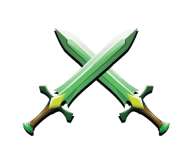
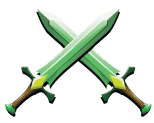
About section is done

Changed region(s): [[0.026, 0.0732, 0.987, 0.9512], [0.4416, 0.5366, 0.4675, 0.561], [0.4156, 0.561, 0.4416, 0.5854]]

diff --git a/src/battlechan_frontend/src/components/LandingPage/LandingAbout/LandingAbout.tsx b/src/battlechan_frontend/src/components/LandingPage/LandingAbout/LandingAbout.tsx
@@ -2,52 +2,25 @@ import React from "react";
 
 import { FiArrowRight } from "react-icons/fi";
 import Sword from "../../../images/sword.png";
-import like from "../../../images/like.png";
-import tab from "../../../images/tablet.png";
+import like from "../../../images/likes.png";
+import big_image from "../../../images/tablet.png";
 import dollarCoin from "../../../images/dollar_coin.png";
 import profile_pic from "../../../images/profilePic.png";
-
-// interface contentTypes {
-//   index: number;
-//   name: string;
-//   constant: string;
-//   date_and_time: string;
-//   left_time: string;
-//   profile_photo: string;
-// }
-
-const content = [
-  {
-    index: 1,
-    name: "Lannister Grey",
-    constant:
-      "Lorem ipsum dolor sit amet, consectetur adipiscing elit, sed do eiusmod tempor incididunt ut labore.......",
-    date_and_time: "Oct 29,2023 : 13:30",
-    left_time: `5:00 min left`,
-    big_image: tab,
-    profile_photo: profile_pic,
-  },
-  {
-    index: 2,
-    name: "Lannister Grey",
-    constant:
-      "Lorem ipsum dolor sit amet, consectetur adipiscing elit, sed do eiusmod tempor incididunt ut labore.......",
-    date_and_time: "Oct 29,2023 : 13:30",
-    left_time: `0:52 min left`,
-    big_image: tab,
-    profile_photo: profile_pic,
-  },
-];
 
 const LandingAbout = () => {
   const className = "LandingAbout";
 
   return (
-    <div className={className + " w-full h-[80vh] bg-green flex-direction-row"}>
+    <div
+      className={
+        className +
+        " w-full h-[90vh] px-24 bg-green flex-direction-row relative"
+      }
+    >
       <section
         className={
           className +
-          "__leftSide w-1/3 h-full gap-8 pl-24 py-24 flex flex-col items-start justify-evenly"
+          "__leftSide w-1/3 h-full gap-8 py-24 flex flex-col items-start justify-evenly"
         }
       >
         <h1 className="text-5xl font-bold"> About Battlechan</h1>
@@ -65,50 +38,116 @@ const LandingAbout = () => {
         </button>
       </section>
 
-      <section className={className + "__rightSide relative"}>
-        {content &&
-          content.map((item, i) => (
-            <div
-              className="card bg-dark h-[160px] w-[760px] gap-8 m-8 rounded-2xl flex-row-center relative"
-              key={i}
-            >
-              <section className="image">
-                <img
-                  src={item.big_image}
-                  alt="Big Image"
-                  className=" bottom-12 pl-8 absolute"
-                />
-              </section>
+      <section
+        className={
+          className +
+          "__rightSide relative w-2/3 h-full flex-direction-col justify-around"
+        }
+      >
+        <Cards />
 
-              <section className="content flex-col-center">
-                <div className="top flex-row-center">
-                  <div className="profileImage relative">
-                    <img
-                      src={item.profile_photo}
-                      alt="Profile Photo"
-                      className="absolute bottom-4"
-                    />
-                  </div>
-                  <p className="name text-xl">{item.name}</p>
-                  <p className="date_and_time">{item.date_and_time}</p>
-                  <p className="left_time text-xl">{item.left_time}</p>
-                </div>
-
-                <p className="px-24 pb-8">{item.constant}</p>
-              </section>
-            </div>
-          ))}
-
-        <img src={Sword} alt="Sword" className="absolute" />
-        <img src={Sword} alt="Sword" className="absolute" />
-        <img src={like} alt="Thumbs up" className="absolute" />
-        <img src={like} alt="Thumbs up" className="absolute" />
-        <img src={like} alt="Thumbs up" className="absolute" />
-        <img src={like} alt="Thumbs up" className="absolute" />
-        <img src={dollarCoin} alt="dollar coin" className="absolute" />
-        <img src={dollarCoin} alt="dollar coin" className="absolute" />
+        <img
+          src={dollarCoin}
+          alt="dollar coin"
+          className="absolute pointer-events-none w-[150px] right-[20%] top-0"
+        />
+        <img
+          src={dollarCoin}
+          alt="dollar coin"
+          className="absolute pointer-events-none w-[50px] left-[40%] top-[50%] translate-x-[-50%] translate-y-[-50%]"
+        />
+        <img
+          src={Sword}
+          alt="Sword"
+          className="absolute pointer-events-none top-[10%]"
+        />
+        <img
+          src={Sword}
+          alt="Sword"
+          className="absolute pointer-events-none bottom-[10%] right-0 rotate-[180deg]"
+        />
+        <img
+          src={like}
+          alt="Thumbs up"
+          className="absolute pointer-events-none w-[200px] left-[70%] top-[47%] translate-x-[-50%] translate-y-[-50%]"
+        />
+        <img
+          src={like}
+          alt="Thumbs up"
+          className="absolute pointer-events-none w-[200px] left-[60%] bottom-[5%] translate-x-[-50%] translate-y-[-50%] rotate-[180deg]"
+        />
       </section>
     </div>
+  );
+};
+
+const Cards = () => {
+  return (
+    <React.Fragment>
+      <div className="card bg-dark h-[140px] w-[700px] gap-8 mt-40 rounded-2xl flex-row-center absolute right-0 top-0">
+        <section className="left_image w-1/3">
+          <img
+            src={big_image}
+            alt="Big Image"
+            className="h-full bottom-8 pl-8 absolute pointer-events-none"
+          />
+        </section>
+
+        <section className="right_content h-full pr-8 pt-4 pb-8 px-8 flex-direction-col justify-between">
+          <div className="right_content_top flex-direction-row items-end justify-between relative">
+            <div className="w-[5%]">
+              <img
+                src={profile_pic}
+                alt="Profile Photo"
+                className="absolute bottom-4 w-[50px] pointer-events-none"
+              />
+            </div>
+            <p className="name text-xl">Lannister Grey</p>
+            <p className="date_and_time">Oct 29,2023 ; 13:30</p>
+            <p className="left_time text-xl">
+              <span className="text-light-green">5:00</span> min left
+            </p>
+          </div>
+
+          <p className="content">
+            Lorem ipsum dolor sit amet, consectetur adipiscing elit, sed do
+            eiusmod tempor incididunt ut labore.......
+          </p>
+        </section>
+      </div>
+
+      <div className="card bg-dark h-[140px] w-[700px] gap-8 mb-36 rounded-2xl flex-row-center absolute bottom-0 left-0">
+        <section className="left_image w-1/3">
+          <img
+            src={big_image}
+            alt="Big Image"
+            className="h-full bottom-8 pl-8 absolute pointer-events-none"
+          />
+        </section>
+
+        <section className="right_content h-full pr-8 pt-4 pb-8 px-8 flex-direction-col justify-between">
+          <div className="right_content_top flex-direction-row items-end justify-between relative">
+            <div className="w-[5%]">
+              <img
+                src={profile_pic}
+                alt="Profile Photo"
+                className="absolute bottom-4 w-[50px] pointer-events-none"
+              />
+            </div>
+            <p className="name text-xl">Lannister Grey</p>
+            <p className="date_and_time">Oct 29,2023 ; 13:30</p>
+            <p className="left_time text-xl">
+              <span className="text-red">0:52</span> min left
+            </p>
+          </div>
+
+          <p className="content">
+            Lorem ipsum dolor sit amet, consectetur adipiscing elit, sed do
+            eiusmod tempor incididunt ut labore.......
+          </p>
+        </section>
+      </div>
+    </React.Fragment>
   );
 };
 

diff --git a/src/battlechan_frontend/src/components/LandingPage/LandingHero/LandingHero.tsx b/src/battlechan_frontend/src/components/LandingPage/LandingHero/LandingHero.tsx
@@ -54,23 +54,24 @@ const LandingHero = () => {
 
       <div
         className={
-          className + `__desktopsBlock w-full h-[80vh] mb-24 relative flex flex-row`
+          className +
+          `__desktopsBlock w-full h-[80vh] mb-24 relative flex flex-row`
         }
       >
         <img
           src={leftDesktop}
           alt="Left Desktop"
-          className="absolute w-3/12 left-16 bottom-8"
+          className="absolute pointer-events-none w-3/12 left-16 bottom-8"
         />
         <img
           src={centerDesktop}
           alt="Center Desktop"
-          className="absolute left-[50%] top-[50%] translate-x-[-50%] translate-y-[-50%]"
+          className="absolute pointer-events-none left-[50%] top-[50%] translate-x-[-50%] translate-y-[-50%]"
         />
         <img
           src={rightDesktop}
           alt="Right Desktop"
-          className="absolute w-3/12 right-16 bottom-8"
+          className="absolute pointer-events-none w-3/12 right-16 bottom-8"
         />
       </div>
     </div>

diff --git a/src/battlechan_frontend/src/components/LandingPage/LandingNavbar/LandingNavbar.tsx b/src/battlechan_frontend/src/components/LandingPage/LandingNavbar/LandingNavbar.tsx
@@ -28,7 +28,7 @@ const LandingNavbar = () => {
       <img
         src={darkColor.includes("dark") ? darkLogo : lightLogo}
         alt="BATTLE CHAN"
-        className={className + "__logo w-28 object-contain"}
+        className={className + "__logo w-28 object-contain pointer-events-none"}
       />
 
       <section

diff --git a/src/battlechan_frontend/src/App.css b/src/battlechan_frontend/src/App.css
@@ -6,6 +6,9 @@
   .flex-direction-row {
     @apply flex flex-row;
   }
+  .flex-direction-col {
+    @apply flex flex-col;
+  }
   .flex-row-center {
     @apply flex flex-row items-center;
   }

diff --git a/src/battlechan_frontend/tailwind.config.js b/src/battlechan_frontend/tailwind.config.js
@@ -9,6 +9,7 @@ export default {
     colors: {
       'dark': "#000",
       'light': "#fff",
+      'red': "#FF4343",
       'green': "#3A6841",
       "light-green": "#18AF00",
     },
